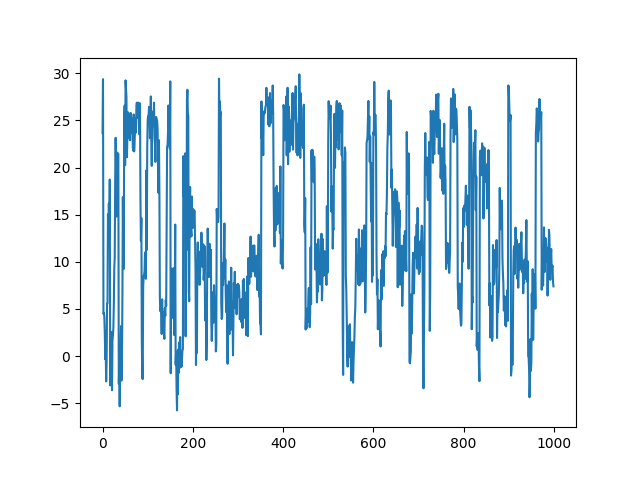
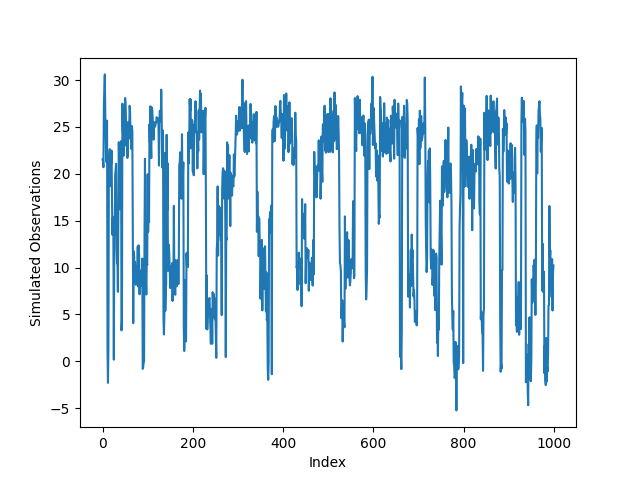
simulate

diff --git a/src/MaxLikeHMM.py b/src/MaxLikeHMM.py
@@ -333,18 +333,22 @@ if __name__ == '__main__':
     obs, state, A, B, init = data.simulate_continuous_sherry()
 
     plt.figure()
-    plt.plot(obs)
+    plt.plot(obs[:1000])
+    plt.xlabel("Index")
+    plt.ylabel("Simulated Observations")
     fname = os.path.join("/Users/xiaoxuanliang/Desktop/STAT 520A/STAT-520A-Project", "plots", "original_observations")
     plt.savefig(fname)
     print("\nFigure saved as '%s'" % fname)
 
     plt.figure()
-    plt.plot(state)
+    plt.plot(state[:1000])
+    plt.xlabel("Index")
+    plt.ylabel("Simulated Hidden States")
     fname = os.path.join("/Users/xiaoxuanliang/Desktop/STAT 520A/STAT-520A-Project", "plots", "original_states")
     plt.savefig(fname)
     print("\nFigure saved as '%s'" % fname)
 
-    model = MaxLikeHMM(observations=obs)
+    model = MaxLikeHMM(observations=obs[:1000])
     tran_matrix = np.ones((6,6))
     for i in range(6):
         for j in range(6):
@@ -353,15 +357,15 @@ if __name__ == '__main__':
             else:
                 tran_matrix[i, j] *= 0.04
 
-    emis_matrix = np.array([[-5, 5],
-                            [2, 5],
-                            [9, 5],
-                            [16, 5],
-                            [23, 5],
-                            [30, 5]])
+    emis_matrix = np.array([[-5, 7],
+                            [2, 7],
+                            [9, 7],
+                            [16, 7],
+                            [23, 7],
+                            [30, 7]])
 
     initial = np.ones(6)
-    for i in range(len(obs)):
+    for i in range(len(obs[:1000])):
         if obs[i] >= np.min(obs) and obs[i] < -1.5:
             initial[0] += 1
         elif obs[i] >= 1.5 and obs[i] < 5.5:
@@ -377,15 +381,61 @@ if __name__ == '__main__':
     initial = initial / 1000
 
     sim_tran, sim_emis, init = model.baum_welch_robust(tran_matrix, emis_matrix, initial)
-    path, _, _ = model.viterbi_robust(initial, sim_tran, sim_emis)
+    path, _, _ = model.viterbi_robust(init, sim_tran, sim_emis)
     print(path)
-    print(state)
-    print(sum(path == state))
+    print(state[:1000])
+    print(sum(path == state[:1000]))  #915  747
 
 
     plt.figure()
     plt.plot(path)
+    plt.xlabel("Index")
+    plt.ylabel("Estimated Hidden States")
     fname = os.path.join("/Users/xiaoxuanliang/Desktop/STAT 520A/STAT-520A-Project", "plots", "viterbi_path")
     plt.savefig(fname)
     print("\nFigure saved as '%s'" % fname)
-    
+
+    # sim_tran = np.array([[0.76331548, 0.06240083, 0.04594133, 0.0815152 , 0.00626544,
+    #     0.04056173],
+    #    [0.04275861, 0.76968643, 0.0809278 , 0.01683517, 0.03937972,
+    #     0.05041227],
+    #    [0.02533083, 0.01630721, 0.90764861, 0.03607666, 0.00469835,
+    #     0.00993834],
+    #    [0.05453972, 0.01527269, 0.03202524, 0.78106736, 0.06948663,
+    #     0.04760835],
+    #    [0.0096078 , 0.03852523, 0.03776866, 0.0301672 , 0.85254404,
+    #     0.03138707],
+    #    [0.01064084, 0.0309499 , 0.00764781, 0.00965317, 0.00979895,
+    #     0.93130932]])
+    # sim_emis = np.array([[ 0,  1],
+    #    [ 4,  2],
+    #    [ 9,  2],
+    #    [13,  2],
+    #    [20,  2],
+    #    [25,  2]])
+    #
+    # init = np.array([3.46758931e-19, 6.22713998e-03, 9.77398372e-01, 1.63744876e-02,
+    #    5.31935101e-38, 2.64969723e-86])
+
+    model_test = MaxLikeHMM(observations=obs[1000:])
+    test_path, _, _ = model_test.viterbi_robust(init, sim_tran, sim_emis)
+    print(test_path)
+    print(state[1000:])
+    print(sum(test_path == state[1000:]))  #187  157
+
+    plt.figure()
+    plt.plot(state[1000:])
+    plt.xlabel("Index")
+    plt.ylabel("Estimated Hidden States")
+    fname = os.path.join("/Users/xiaoxuanliang/Desktop/STAT 520A/STAT-520A-Project", "plots", "test_state")
+    plt.savefig(fname)
+    print("\nFigure saved as '%s'" % fname)
+
+    plt.figure()
+    plt.plot(test_path)
+    plt.xlabel("Index")
+    plt.ylabel("Estimated Hidden States")
+    fname = os.path.join("/Users/xiaoxuanliang/Desktop/STAT 520A/STAT-520A-Project", "plots", "viterbi_test_path")
+    plt.savefig(fname)
+    print("\nFigure saved as '%s'" % fname)
+

diff --git a/src/SimulateData.py b/src/SimulateData.py
@@ -129,7 +129,7 @@ class SimulateData:
             a = np.random.normal(25, 2)
         return a
 
-    def simulate_continuous_sherry(self, num_obs=1000):
+    def simulate_continuous_sherry(self, num_obs=1200):
         """
         sherry's process to simulate data
         :param num_obs:
